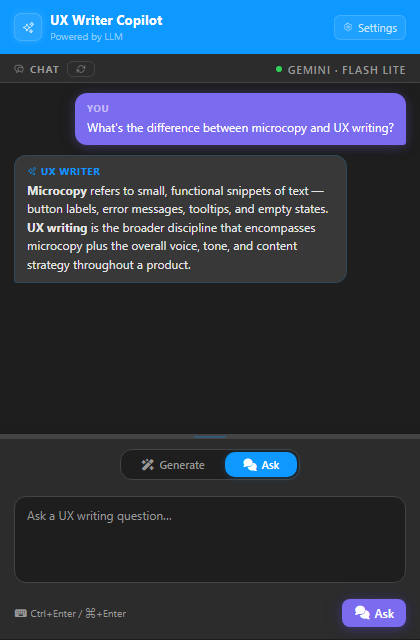
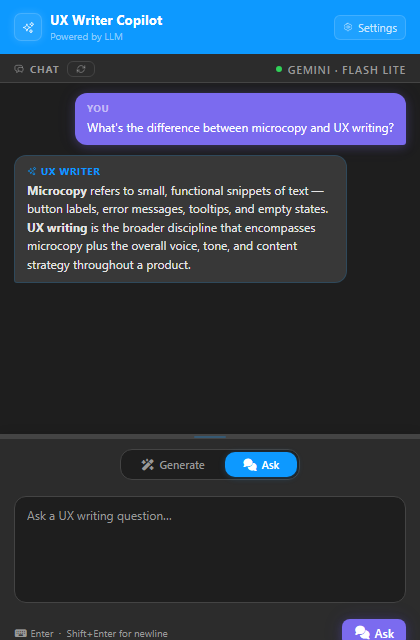
Improve chat input behavior and Enter shortcut
Increase plugin panel height, prevent Ask→Generate clipping by raising input minimums, and keep the action row pinned at the bottom while the textarea grows.

Changed region(s): [[0.031, 0.9375, 0.4024, 1.0], [0.8048, 0.9062, 0.9905, 1.0]]

diff --git a/ui.html b/ui.html
@@ -211,6 +211,7 @@
       border: 1px solid var(--header-icon-border);
     }
 
+
     .header__title {
       font-size: 13px;
       font-weight: 700;
@@ -750,7 +751,7 @@
       display: flex;
       flex-direction: column;
       gap: 8px;
-      min-height: 200px;
+      min-height: 220px;
       max-height: 75vh;
     }
 
@@ -819,7 +820,8 @@
       align-items: center;
       justify-content: space-between;
       gap: 8px;
-      margin-top: 8px;
+      margin-top: auto;
+      padding-top: 8px;
     }
 
     .versions-checkbox { font-size: 11px; }
@@ -839,7 +841,7 @@
       transition: border-color 0.18s, box-shadow 0.18s;
       flex: 1 1 60px;
       min-height: 60px;
-      max-height: 160px;
+      max-height: none;
       overflow-y: auto;
     }
     textarea:focus {
@@ -1192,6 +1194,7 @@
       color: var(--header-title);
       letter-spacing: 0.2px;
     }
+
 
     .onboarding-progress {
       display: flex;
@@ -1632,7 +1635,7 @@
     <div class="input-bottom">
       <p class="hint">
         <i class="fa-solid fa-keyboard" aria-hidden="true"></i>
-        Ctrl+Enter / ⌘+Enter
+        Enter &nbsp;·&nbsp; Shift+Enter for newline
       </p>
       <button class="btn btn--primary" id="generate-btn" type="button">
         <span id="spinner" class="spinner hidden"></span>
@@ -2068,8 +2071,8 @@
         if (!handle || !inputSection) return;
 
         /* Min height: textarea min-height (60) + options bar + generate row +
-           vertical padding ≈ 150px. Max height leaves at least 60px for chat. */
-        var MIN_INPUT_H = 150;
+           vertical padding ≈ 175px. Max height leaves at least 60px for chat. */
+        var MIN_INPUT_H = 175;
         var MAX_INPUT_H = 400;
         var startY      = 0;
         var startH      = 0;

diff --git a/src/main.ts b/src/main.ts
@@ -30,7 +30,7 @@ function redactSecrets(raw: unknown): string {
 
 // ── Show the plugin UI ───────────────────────────────────────────────────────
 
-figma.showUI(__html__, { width: 420, height: 640, themeColors: true });
+figma.showUI(__html__, { width: 420, height: 720, themeColors: true });
 
 figma.ui.postMessage({
   type: "notify",

diff --git a/src/ui.ts b/src/ui.ts
@@ -269,7 +269,8 @@ function setupEventListeners(): void {
   });
 
   promptInput.addEventListener("keydown", (e: KeyboardEvent) => {
-    if (e.key === "Enter" && (e.ctrlKey || e.metaKey)) {
+    if (e.key === "Enter" && !e.shiftKey) {
+      e.preventDefault();
       if (interactionMode === "ask") {
         void handleAsk();
       } else {

diff --git a/scripts/gen-screenshots.py b/scripts/gen-screenshots.py
@@ -1,7 +1,7 @@
 #!/usr/bin/env python3
 """
 Generate 420×640 plugin screenshots using Chromium headless.
-- Plugin opens at 420×640 (see figma.showUI in src/main.ts)
+- Plugin opens at 420×720 (see figma.showUI in src/main.ts)
 - Renders at 420×900 to avoid cutting off bottom content
 - Crops to 420×640 using Pillow
 - Font Awesome loaded from local npm package
@@ -72,7 +72,7 @@ FA_LINK = f'<link rel="stylesheet" href="file://{FA_CSS}">'
 
 RENDER_H = 900  # render taller than H so nothing gets clipped by viewport
 
-# Target dimensions matching figma.showUI({ width: 420, height: 640 })
+# Screenshot crop size for README assets (fixed)
 W = 420
 H = 640
 
@@ -476,7 +476,7 @@ html = make_html(
   <div class="input-bottom">
     <p class="hint">
       <i class="fa-solid fa-keyboard" aria-hidden="true"></i>
-      Ctrl+Enter / &#8984;+Enter
+      Enter &nbsp;&middot;&nbsp; Shift+Enter for newline
     </p>
     <button class="btn btn--primary" type="button">
       <i class="fa-solid fa-wand-magic-sparkles" aria-hidden="true"></i>
@@ -529,7 +529,7 @@ html = make_html(
   <div class="input-bottom">
     <p class="hint">
       <i class="fa-solid fa-keyboard" aria-hidden="true"></i>
-      Ctrl+Enter / &#8984;+Enter
+      Enter &nbsp;&middot;&nbsp; Shift+Enter for newline
     </p>
     <button class="btn btn--primary" type="button">
       <i class="fa-solid fa-comments" aria-hidden="true"></i>
